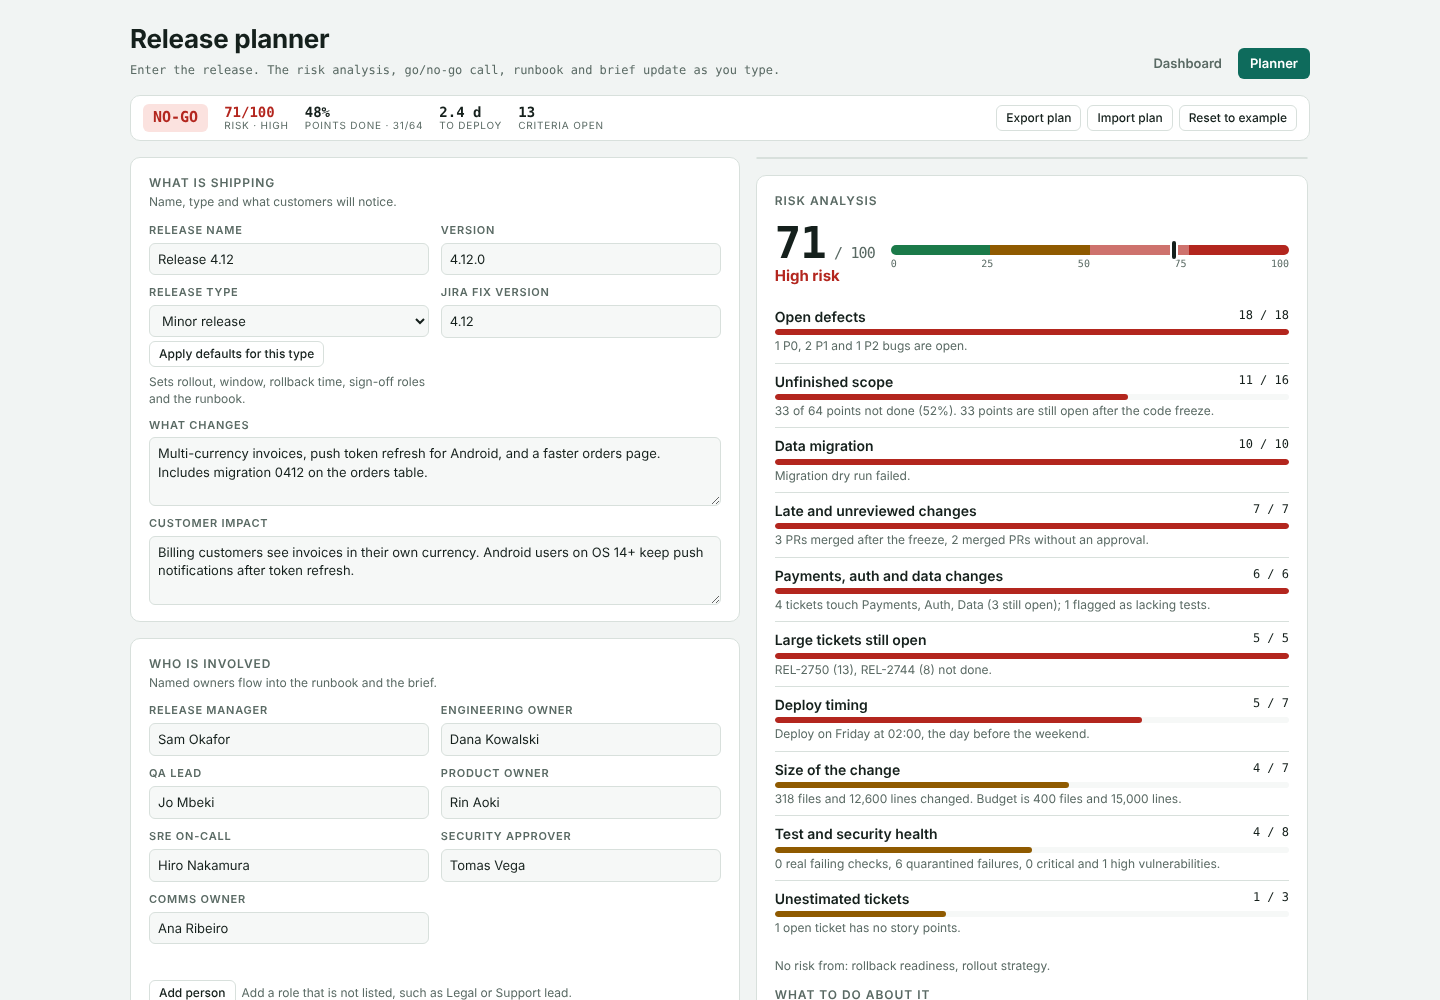
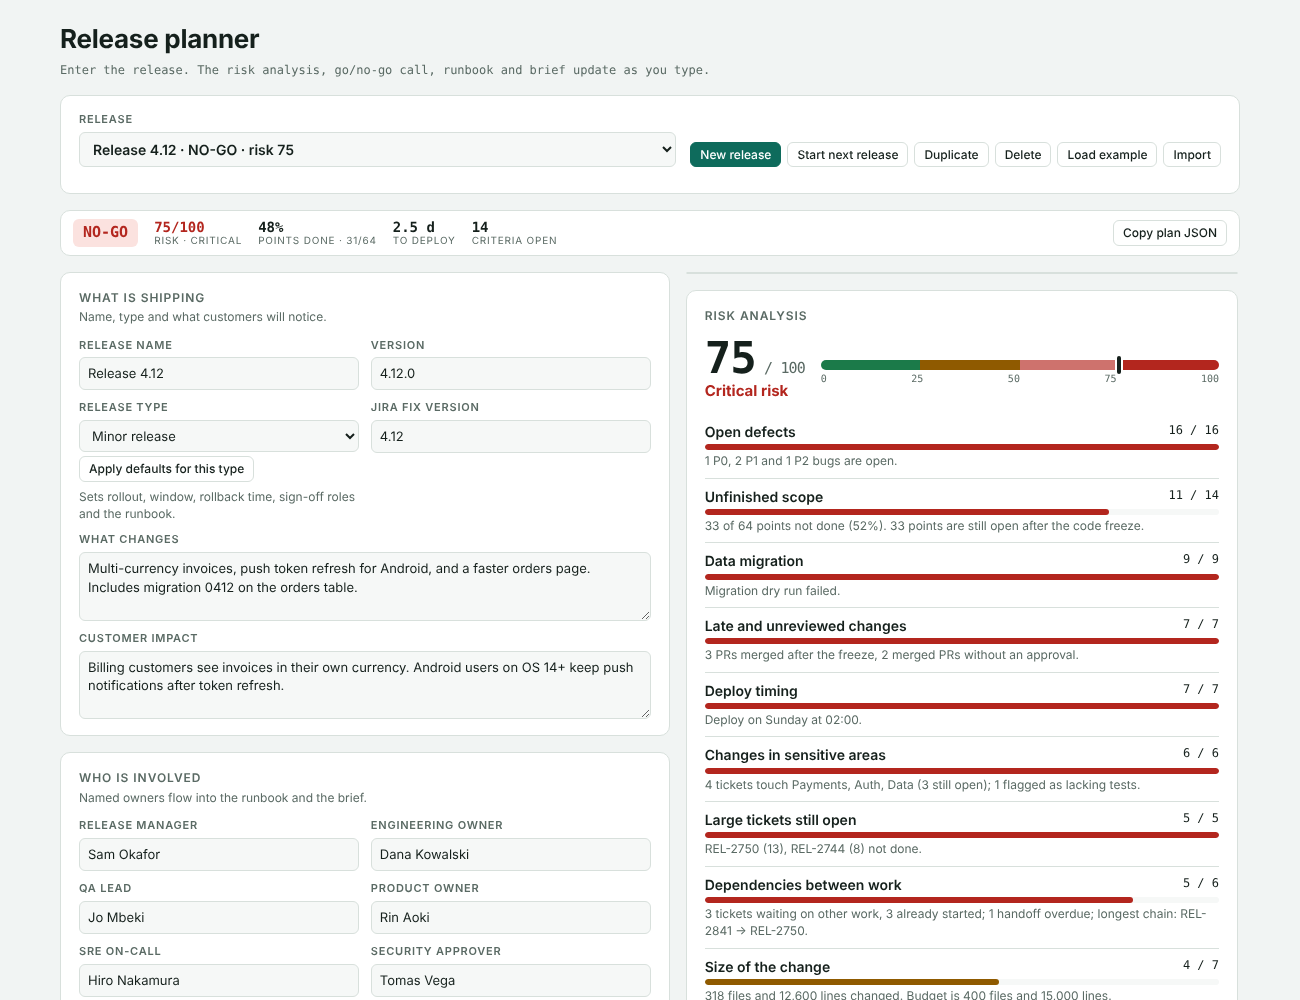
Add dependency and release doc screenshots and a flow diagram to the README
Claude-Session: https://claude.ai/code/session_01J6ZpA1dHSDu8WDybSqTXX9

diff --git a/README.md b/README.md
@@ -164,3 +164,25 @@ Questions to expect: why these weights (opinions with tests, meant to be tuned),
 - **Release docs**: in the Release brief panel, **Copy for Docs**, **Word (.doc)**, **Printable page** (print, then Save as PDF) and a **Status one-pager** for leadership.
 
 The hosted page at the GitHub Pages link keeps everything in your browser. Login, shared saving, auto-refresh and Slack alerts need a server and live in the `releasedoclogin` project.
+
+![Dependencies panel: longest chain, what to finish first, who is waiting, overdue handoffs](docs/dependencies.png)
+
+![Handoffs between teams, with owner, due date and status](docs/handoffs.png)
+
+![Release brief panel with Copy for Docs, Word, Printable page and Status one-pager](docs/release-docs.png)
+
+![Status one-pager for leadership](docs/status-onepager.png)
+
+How a release moves through the planner:
+
+```mermaid
+flowchart LR
+    A["Enter the release: people, dates, tickets, handoffs"] --> B["Rules check each criterion"]
+    B --> C{"GO, HOLD or NO-GO"}
+    D["Risk score out of 100"] --> C
+    E["Dependencies: waiting, chains, handoffs"] --> B
+    C --> F["Release brief"]
+    F --> G["Copy for Docs"]
+    F --> H["Word or printable page"]
+    F --> I["Status one-pager"]
+```
